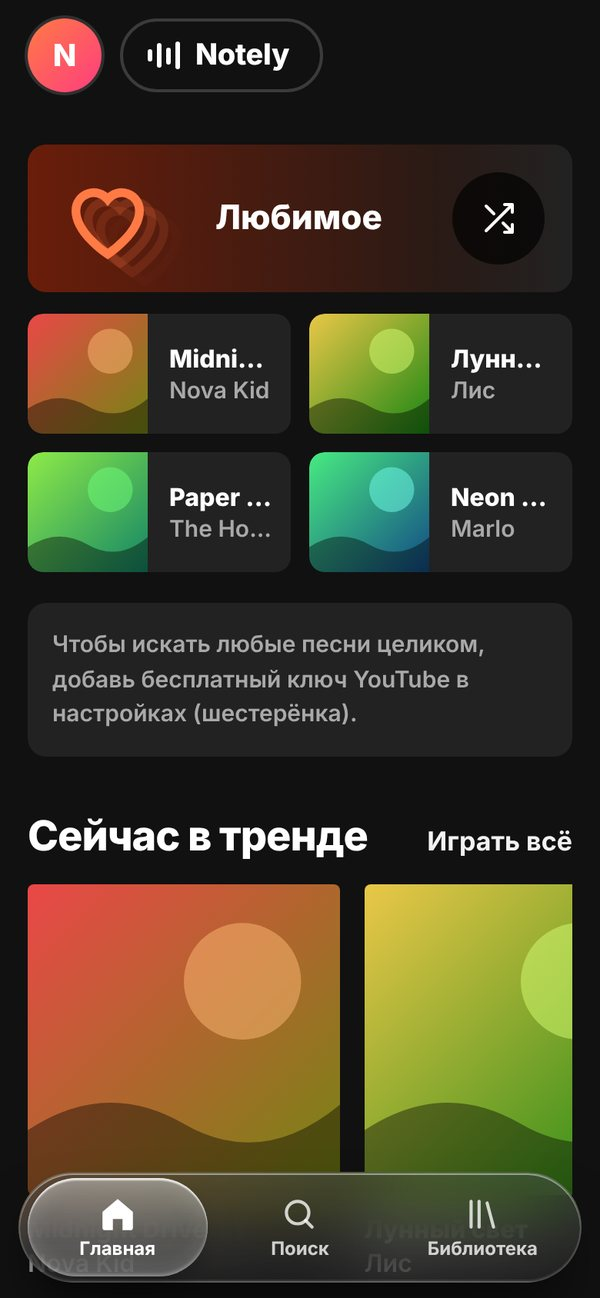
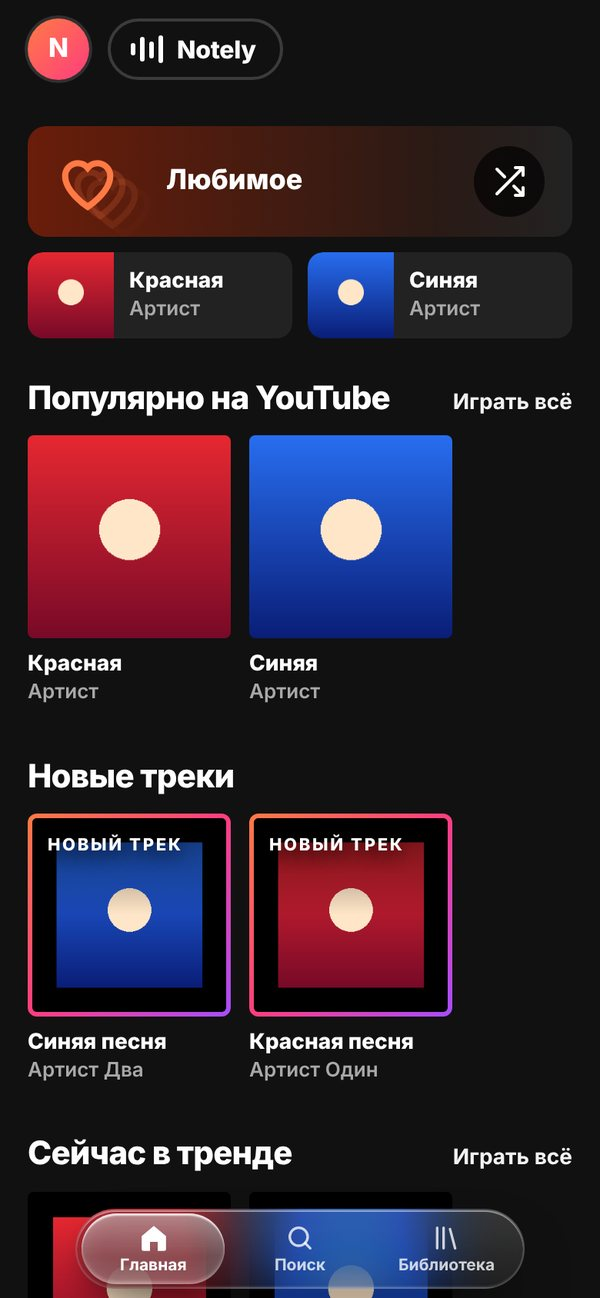
Один фон в стиле Apple Music из цветов обложки, новый плеер и свайпы
- bg.js: одна сцена, цветные пятна плывут и оживают, когда играет трек
- цвета берутся с обложки, у обложек YouTube «Topic» убраны чёрные полосы
- полный плеер как в Apple Music: крупная обложка, название слева, сердечко, тонкая полоса, большие кнопки, перемешать и повтор
- свайпы: в плеере влево/вправо меняют трек, вниз закрывает; мини-плеер влево/вправо/вверх; вкладки листаются влево/вправо
- из настроек убран выбор фона
- обновлены скриншоты и README

Claude-Session: https://claude.ai/code/session_01Xd3d1my2gsvXjvj9dSKZta

diff --git a/app.js b/app.js
@@ -9,7 +9,7 @@ const esc=s=>String(s==null?"":s).replace(/[&<>"]/g,c=>({"&":"&amp;","<":"&lt;",
 const fmt=s=>{s=Math.max(0,Math.round(s||0));return Math.floor(s/60)+":"+("0"+s%60).slice(-2)};
 let toastT=0;const toast=t=>{const e=$("toast");e.textContent=t;e.className="on";clearTimeout(toastT);toastT=setTimeout(()=>e.className="",3200)};
 const hue=id=>{let h=0;const s=String(id);for(let i=0;i<s.length;i++)h=(h*131+s.charCodeAt(i)*977)%360;return h};
-const artCss=t=>t.art?"background-image:url('"+esc(t.art)+"')":"background-image:linear-gradient(135deg,hsl("+hue(t.id)+" 75% 58%),hsl("+(hue(t.id)+60)%360+" 75% 38%))";
+const artCss=t=>t.art?"background-image:url('"+esc(t.art)+"')"+(t.topic?";background-size:178% auto":""):"background-image:linear-gradient(135deg,hsl("+hue(t.id)+" 75% 58%),hsl("+(hue(t.id)+60)%360+" 75% 38%))";
 
 /* ---- каталоги ---- */
 const aq=()=>"app_name="+APP+(ST.ak?"&api_key="+encodeURIComponent(ST.ak):"");
@@ -27,7 +27,7 @@ const dur8601=d=>{const m=/PT(?:(\d+)H)?(?:(\d+)M)?(?:(\d+)S)?/.exec(d||"");retu
 const decode=s=>{const t=document.createElement("textarea");t.innerHTML=s;return t.value};
 /* убираем хвосты из названий YouTube: (Official Video), [Lyrics], 4K и т.п. */
 const cleanT=t=>{let r=String(t).replace(/\s*[\(\[](official|lyrics?|audio|video|hd|4k|mv|music video|visualizer|clip|live|remaster(ed)?|explicit|with lyrics)[^\)\]]*[\)\]]/gi,"").replace(/\s*\|.*$/,"").replace(/\s+/g," ").trim();return r||t};
-const fromYt=x=>{const sn=x.snippet||{},th=sn.thumbnails||{};return{id:"y"+(x.id.videoId||x.id),ytId:x.id.videoId||x.id,src:"YouTube",vid:/official\s*(music\s*)?video|music\s*video|\bmv\b|video\s*clip/i.test(sn.title||""),title:cleanT(decode(sn.title||"")),artist:decode((sn.channelTitle||"").replace(/ - Topic$/,"")),art:(th.high||th.medium||th.default||{}).url||"",url:"",dur:x.contentDetails?dur8601(x.contentDetails.duration):0}};
+const fromYt=x=>{const sn=x.snippet||{},th=sn.thumbnails||{};return{id:"y"+(x.id.videoId||x.id),ytId:x.id.videoId||x.id,src:"YouTube",topic:/ - Topic$/.test(sn.channelTitle||""),vid:/official\s*(music\s*)?video|music\s*video|\bmv\b|video\s*clip/i.test(sn.title||""),title:cleanT(decode(sn.title||"")),artist:decode((sn.channelTitle||"").replace(/ - Topic$/,"")),art:(th.high||th.medium||th.default||{}).url||"",url:"",dur:x.contentDetails?dur8601(x.contentDetails.duration):0}};
 const ytOn=()=>!!(ST.yk||CF.proxy);const ytKey=()=>{if(!ST.yk)return Promise.reject(new Error("nokey"));return Promise.resolve(ST.yk)};
 const ytErr=j=>{if(j&&j.error){const e=new Error(j.error.message||"yt");e.quota=(j.error.errors||[]).some(x=>/quota/i.test(x.reason));throw e}return j};
 const ytSearch=q=>(!ST.yk&&CF.proxy)?getJ(CF.proxy.replace(/\/$/,"")+"/search?q="+encodeURIComponent(q)).then(ytErr).then(v=>(v.items||[]).map(fromYt)):ytKey().then(k=>getJ(YT+"/search?part=snippet&type=video&videoCategoryId=10&maxResults=20&q="+encodeURIComponent(q)+"&key="+k)).then(ytErr).then(j=>{const ids=(j.items||[]).map(i=>i.id.videoId).filter(Boolean);if(!ids.length)return[];return getJ(YT+"/videos?part=snippet,contentDetails&id="+ids.join(",")+"&key="+ST.yk).then(ytErr).then(v=>(v.items||[]).map(fromYt))});
@@ -37,9 +37,26 @@ const merge=rs=>{const o=[],n=Math.max(0,...rs.map(r=>r.ok?r.v.length:0));for(le
 const warn=rs=>{const q=rs.find(r=>!r.ok&&r.e&&r.e.quota);if(q)return"Дневной лимит YouTube закончился. Он обновится завтра, пока ищи в Audius и Jamendo.";const bad=rs.filter(r=>!r.ok);if(!bad.length)return"";return bad.every(b=>b.e&&b.e.message==="nokey")?(ytOn()?"":"Чтобы искать любые песни целиком, добавь бесплатный ключ YouTube в настройках (значок N вверху)."):"Часть каталога сейчас не отвечает. Попробуй позже."};
 
 /* ---- фон под трек ---- */
-const SCN=Object.keys(BG.scenes);
-function paintBg(){const t=cur;if(t){const h=hue(t.id);BG.color(h,h+70)}
-  if(ST.scene==="auto"){if(t)BG.set(SCN[hue(t.id+"s")%SCN.length])}else BG.set(ST.scene)}
+/* ---- фон под трек: цвета берём с обложки ---- */
+const palC={};let palTok=0;
+function hsl2rgb(h,s,l){h=((h%360)+360)%360/360;const f=n=>{const k=(n+h*12)%12,a=s*Math.min(l,1-l);return l-a*Math.max(-1,Math.min(k-3,9-k,1))};return[Math.round(f(0)*255),Math.round(f(8)*255),Math.round(f(4)*255)]}
+function rgb2hsl(r,g,b){r/=255;g/=255;b/=255;const mx=Math.max(r,g,b),mn=Math.min(r,g,b),l=(mx+mn)/2;let h=0,s=0;if(mx!==mn){const d=mx-mn;s=l>.5?d/(2-mx-mn):d/(mx+mn);h=mx===r?(g-b)/d+(g<b?6:0):mx===g?(b-r)/d+2:(r-g)/d+4;h*=60}return[h,s,l]}
+const fbPal=id=>{const h=hue(id);return[h,h+40,h+90,h-35,h+150].map(x=>hsl2rgb(x,.7,.46))};
+function grabPal(url){return new Promise(res=>{const im=new Image();im.crossOrigin="anonymous";
+  im.onload=()=>{try{const c=document.createElement("canvas");c.width=c.height=24;const x=c.getContext("2d"),w=im.naturalWidth,h=im.naturalHeight;x.drawImage(im,w*.25,h*.25,w*.5,h*.5,0,0,24,24);const d=x.getImageData(0,0,24,24).data;
+    const bins=Array.from({length:12},()=>({w:0,r:0,g:0,b:0}));
+    for(let i=0;i<d.length;i+=4){const[hh,ss,ll]=rgb2hsl(d[i],d[i+1],d[i+2]),ex=ll<.12||ll>.9,wt=ex?.02:1+ss*2.5,k=Math.floor(hh/30)%12,b=bins[k];b.w+=wt;b.r+=d[i]*wt;b.g+=d[i+1]*wt;b.b+=d[i+2]*wt}
+    const all=bins.reduce((a,b)=>a+b.w,0),top=bins.filter(b=>b.w>all*.08).sort((a,b)=>b.w-a.w).slice(0,4).map(b=>{const[hh,ss,ll]=rgb2hsl(b.r/b.w,b.g/b.w,b.b/b.w);return[hh,Math.min(.85,ss>.2?Math.max(.45,ss*1.15):ss*1.1),Math.min(.5,Math.max(.28,ll))]});
+    if(!top.length){res(null);return}
+    const m=top[0],sh=(c,d)=>[c[0]+d,c[1],c[2]],cc=[top[0],top[1]||sh(m,24),top[2]||sh(m,-24),top[3]||sh(top[1]||m,-18)].map(c=>hsl2rgb(c[0],c[1],c[2]));
+    const o=[cc[1],cc[2],cc[3],cc[0],cc[0]];
+    res(o)}catch(e){res(null)}};
+  im.onerror=()=>res(null);im.src=url})}
+function paintBg(){const t=cur;if(!t)return;const my=++palTok;
+  if(palC[t.id]){BG.palette(palC[t.id]);return}
+  BG.palette(fbPal(t.id));
+  if(!t.art)return;
+  grabPal(t.art).then(p=>{if(!p)return;palC[t.id]=p;if(my===palTok)BG.palette(p)})}
 
 /* ---- плеер ---- */
 const au=new Audio();au.preload="none";au.volume=ST.vol/100;
@@ -62,7 +79,7 @@ function resolve(t){if(t.src==="YouTube")return Promise.resolve("");if(t.src!=="
   return getJ(AUD+"/tracks/"+t.id.slice(1)+"/stream?no_redirect=true&"+aq()).then(j=>typeof j.data==="string"?j.data:t.url).catch(()=>t.url)}
 function load(go){cur=Q[qi];if(!cur)return;const my=++tok;
   $("bar").classList.remove("hid");$("bCv").style.cssText=$("fCv").style.cssText=artCss(cur);mq($("bT"),cur.title);$("bA").textContent=$("fA").textContent=cur.artist;$("fT").textContent=cur.title;
-  ST.recent=[cur].concat(ST.recent.filter(x=>x.id!==cur.id)).slice(0,20);save();document.title=cur.title+" · Notely";$("fLike").classList.toggle("on",isLiked(cur));paintBg();mark();
+  ST.recent=[cur].concat(ST.recent.filter(x=>x.id!==cur.id)).slice(0,20);save();document.title=cur.title+" · Notely";$("fLike").classList.toggle("on",isLiked(cur));paintBg();mark();if($("full").classList.contains("on")&&lastQi>=0&&qi!==lastQi)slide(qi>lastQi?"sl":"sr");lastQi=qi;
   if("mediaSession" in navigator){try{navigator.mediaSession.metadata=new MediaMetadata({title:cur.title,artist:cur.artist,artwork:cur.art?[{src:cur.art,sizes:"480x480"}]:[]})}catch(e){}}
   if(cur.src==="YouTube"){au.pause();ymode=true;showYt(true);ensureYT().then(p=>{if(my!==tok)return;p.loadVideoById(cur.ytId);try{p.setVolume(ST.vol)}catch(e){}}).catch(()=>failTrack({name:"YouTube не загрузился"}));return}
   if(ymode){ymode=false;try{yp&&yp.pauseVideo()}catch(e){}showYt(false)}
@@ -83,11 +100,11 @@ au.addEventListener("timeupdate",()=>{if(ymode)return;const d=au.duration||(cur&
 $("vol").value=ST.vol;rng($("vol"),ST.vol);$("vol").addEventListener("input",function(){au.volume=this.value/100;ST.vol=+this.value;try{yp&&yp.setVolume(ST.vol)}catch(e){}rng(this,this.value);save()});
 $("ppB").onclick=$("fPp").onclick=toggle;$("nxB").onclick=$("fNx").onclick=next;$("prB").onclick=$("fPr").onclick=prev;
 $("shB").onclick=$("fSh").onclick=()=>{shuf=!shuf;$("shB").classList.toggle("on",shuf);$("fSh").classList.toggle("on",shuf);toast(shuf?"Перемешивание включено":"Перемешивание выключено")};
-$("rpB").onclick=function(){rep=!rep;this.classList.toggle("on",rep);toast(rep?"Повтор трека включён":"Повтор выключен")};
+$("rpB").onclick=$("fRp").onclick=function(){rep=!rep;$("rpB").classList.toggle("on",rep);$("fRp").classList.toggle("on",rep);toast(rep?"Повтор трека включён":"Повтор выключен")};
 $("fLike").onclick=e=>{if(cur)like(cur,e.currentTarget)};
+let lastQi=-1;const slide=c=>{const e=$("fCv");e.classList.remove("sl","sr");void e.offsetWidth;e.classList.add(c)};
 const openFull=()=>{if(!cur)return;$("full").classList.add("on");document.body.classList.add("fp");if(ymode)showYt(true)},closeFull=()=>{$("full").classList.remove("on");document.body.classList.remove("fp");if(ymode)showYt(true)};
 $("nowB").onclick=openFull;$("clB").onclick=closeFull;
-$("bars").innerHTML=Array.from({length:22},(_,i)=>'<i style="animation-delay:'+(-(i*47%100)/100)+'s;animation-duration:'+(.6+(i*13%7)/10)+'s"></i>').join("");
 if("mediaSession" in navigator){const m=navigator.mediaSession;[["play",()=>{if(ymode&&yp)yp.playVideo();else au.play()}],["pause",()=>{if(ymode&&yp)yp.pauseVideo();else au.pause()}],["nexttrack",next],["previoustrack",prev]].forEach(a=>{try{m.setActionHandler(a[0],a[1])}catch(e){}})}
 document.addEventListener("keydown",e=>{if(/INPUT|TEXTAREA/.test(e.target.tagName)&&e.target.type!=="range")return;if(e.code==="Space"){e.preventDefault();toggle()}if(e.key==="ArrowRight"&&e.shiftKey)next();if(e.key==="ArrowLeft"&&e.shiftKey)prev();if(e.key==="Escape")closeFull()});
 function burst(el){const r=el.getBoundingClientRect();for(let i=0;i<7;i++){const h=document.createElement("div");h.className="hb";h.textContent=["💗","💖","✨","💞"][i%4];h.style.left=(r.left+r.width/2-9)+"px";h.style.top=(r.top+r.height/2-9)+"px";h.style.setProperty("--x",(Math.random()*90-45)+"px");h.style.animationDelay=(i*50)+"ms";document.body.appendChild(h);setTimeout(()=>h.remove(),1300)}}
@@ -155,19 +172,34 @@ main.addEventListener("click",e=>{
   const ch=e.target.closest(".chip");if(ch){libTab=ch.dataset.c;lib();return}
   const g=e.target.closest(".g");if(g){$("q").value=g.textContent;doSearch(g.dataset.g);return}
   const b=e.target.closest("[data-k]");if(b)play(lists[b.dataset.k],+b.dataset.i)});
+/* ---- свайпы ---- */
+const buzz=()=>{try{navigator.vibrate&&navigator.vibrate(10)}catch(e){}};
+function swipe(el,o){let sx=0,sy=0,id=null,dx=0,dy=0,ax=null;
+  el.addEventListener("pointerdown",e=>{if(e.pointerType==="mouse"||e.target.closest("input,select,textarea")||(o.skip&&e.target.closest(o.skip))){id=null;return}id=e.pointerId;sx=e.clientX;sy=e.clientY;dx=dy=0;ax=null});
+  el.addEventListener("pointermove",e=>{if(id!==e.pointerId)return;dx=e.clientX-sx;dy=e.clientY-sy;if(!ax&&(Math.abs(dx)>10||Math.abs(dy)>10))ax=Math.abs(dx)>Math.abs(dy)?"x":"y"});
+  el.addEventListener("pointerup",e=>{if(id!==e.pointerId)return;id=null;const m=o.min||60;let f=null;
+    if(ax==="x"&&Math.abs(dx)>m&&Math.abs(dx)>Math.abs(dy)*1.4)f=dx<0?o.left:o.right;
+    else if(ax==="y"&&Math.abs(dy)>m&&Math.abs(dy)>Math.abs(dx)*1.4)f=dy<0?o.up:o.down;
+    if(f){buzz();const k=ev=>{ev.stopPropagation();ev.preventDefault()};el.addEventListener("click",k,{capture:true,once:true});setTimeout(()=>el.removeEventListener("click",k,true),400);f()}});
+  el.addEventListener("pointercancel",()=>{id=null})}
+swipe($("full"),{left:next,right:prev,down:closeFull,min:70});
+$("grab").onclick=closeFull;
+swipe($("bar"),{left:next,right:prev,up:openFull,min:50});
+const TABS=["home","search","lib"],goTab=d=>{const i=TABS.indexOf(view)+d;if(i>=0&&i<TABS.length)show(TABS[i])};
+swipe(main,{left:()=>goTab(1),right:()=>goTab(-1),skip:".shelf,.chips,.sb",min:70});
+
 /* волна при нажатии */
 document.addEventListener("pointerdown",e=>{const b=e.target.closest("button");if(!b)return;const r=b.getBoundingClientRect(),d=Math.max(r.width,r.height),s=document.createElement("span");s.className="rpl";s.style.cssText="width:"+d+"px;height:"+d+"px;left:"+(e.clientX-r.left-d/2)+"px;top:"+(e.clientY-r.top-d/2)+"px";b.appendChild(s);setTimeout(()=>s.remove(),650)});
 /* настройки */
-$("sc").innerHTML='<option value="auto">Авто (меняется под трек)</option>'+SCN.map(k=>'<option value="'+k+'">'+BG.scenes[k].name+" — "+BG.scenes[k].desc+"</option>").join("");
 const APP_VER="2.1";
 $("ver").textContent=APP_VER;
 $("setX").onclick=$("setNo").onclick=()=>$("set").classList.remove("on");
 $("updB").onclick=async()=>{const b=$("updB");b.disabled=true;b.textContent="Обновляю…";try{if("serviceWorker" in navigator){const rs=await navigator.serviceWorker.getRegistrations();await Promise.all(rs.map(r=>r.unregister()))}if("caches" in window){const ks=await caches.keys();await Promise.all(ks.map(k=>caches.delete(k)))}}catch(e){}location.replace(location.pathname+"?v="+Date.now())};
-$("setB").onclick=()=>{$("sc").value=ST.scene;$("yk").value=ST.yk;$("jk").value=ST.jk;$("set").classList.add("on")};
+$("setB").onclick=()=>{$("yk").value=ST.yk;$("jk").value=ST.jk;$("set").classList.add("on")};
 $("setNo").onclick=()=>$("set").classList.remove("on");
-$("setOk").onclick=()=>{ST.yk=$("yk").value.trim();ST.jk=$("jk").value.trim();ST.scene=$("sc").value;save();paintBg();$("set").classList.remove("on");toast("Сохранено");show(view)};
+$("setOk").onclick=()=>{ST.yk=$("yk").value.trim();ST.jk=$("jk").value.trim();save();$("set").classList.remove("on");toast("Сохранено");show(view)};
 $("set").addEventListener("click",e=>{if(e.target===$("set"))$("set").classList.remove("on")});
-BG.init();if(ST.scene!=="auto"&&BG.scenes[ST.scene])BG.set(ST.scene);
+BG.init();
 show("home");setTimeout(moveInd,300);if(document.fonts&&document.fonts.ready)document.fonts.ready.then(moveInd);
 if("serviceWorker" in navigator&&location.protocol.startsWith("http")){navigator.serviceWorker.register("sw.js").catch(()=>{})}
 })();

diff --git a/index.html b/index.html
@@ -107,16 +107,6 @@ input[type=range]::-moz-range-thumb{width:13px;height:13px;border-radius:50%;bac
 .vol{display:flex;align-items:center;gap:8px}.vol input{width:90px}
 .mprog{display:none}
 /* полный плеер */
-#full{position:fixed;inset:0;z-index:40;display:flex;flex-direction:column;align-items:center;justify-content:center;gap:18px;padding:calc(20px + var(--sat)) 28px calc(24px + var(--sab));background:#0b0b0bd9;backdrop-filter:blur(16px);-webkit-backdrop-filter:blur(16px);clip-path:circle(0 at 50% 100%);visibility:hidden;transition:clip-path .7s cubic-bezier(.7,0,.2,1),visibility 0s .7s}
-#full.on{clip-path:circle(150% at 50% 100%);visibility:visible;transition:clip-path .8s cubic-bezier(.7,0,.2,1)}
-#full .cl{position:absolute;top:calc(14px + var(--sat));right:18px}
-#full .cv{position:relative;z-index:auto;width:min(86vw,54vh,460px);aspect-ratio:1;border-radius:14px;opacity:0;transition:opacity .8s ease .2s}
-#full.on .cv{opacity:1}
-#full .cv::before{content:"";position:absolute;inset:-7%;z-index:-1;border-radius:24px;background:inherit;background-size:cover;background-position:center;filter:blur(38px) saturate(1.7) brightness(1.1);opacity:.9}
-#full .cv::after{content:"";position:absolute;inset:-26%;z-index:-2;border-radius:50%;background:inherit;background-size:cover;background-position:center;filter:blur(90px) saturate(1.8);opacity:.45}
-#full .t{text-align:center;max-width:90%}#full .t b{font-size:clamp(20px,4vw,28px);letter-spacing:-.02em;display:block;line-height:1.15;font-weight:800}#full .t span{color:var(--mute)}
-#full .sk2{width:min(520px,100%)}#full .bt{gap:24px}#full .pp{width:64px;height:64px}
-.bars{display:flex;gap:4px;align-items:flex-end;height:30px}.bars i{width:5px;border-radius:3px;background:var(--grad);height:100%;transform-origin:bottom;transform:scaleY(.15);animation:eqk .9s ease-in-out infinite alternate;animation-play-state:var(--pl,paused)}
 #ytw{position:fixed;z-index:45;right:16px;bottom:calc(150px + var(--sab));width:240px;aspect-ratio:16/9;border-radius:12px;overflow:hidden;background:#000;box-shadow:0 14px 40px -10px #000,0 0 0 1px var(--line);transition:all .6s var(--ease)}
 #ytw iframe,#ytw>div{width:100%;height:100%;display:block;border:0}
 #ytw.big{right:50%;bottom:50%;transform:translate(50%,calc(50% - 90px));width:min(88vw,720px);border-radius:16px;z-index:46}
@@ -159,6 +149,36 @@ input[type=range]::-moz-range-thumb{width:13px;height:13px;border-radius:50%;bac
 #set .wide{width:100%;justify-content:center}
 #set .sf{display:flex;gap:8px;justify-content:flex-end;padding-top:12px;border-top:1px solid var(--line)}
 #set .btn{padding:10px 18px;font-size:14px}
+/* полный плеер, как в Apple Music */
+#full{position:fixed;inset:0;z-index:40;display:flex;flex-direction:column;align-items:center;padding:calc(8px + var(--sat)) 26px calc(18px + var(--sab));background:linear-gradient(180deg,#0000 35%,#0007);clip-path:circle(0 at 50% 100%);visibility:hidden;transition:clip-path .7s cubic-bezier(.7,0,.2,1),visibility 0s .7s;touch-action:none;user-select:none;-webkit-user-select:none}
+#full.on{clip-path:circle(150% at 50% 100%);visibility:visible;transition:clip-path .8s cubic-bezier(.7,0,.2,1)}
+#full .grab{width:42px;height:5px;border-radius:3px;background:#ffffff59;margin:4px 0 6px;flex:none}
+#full .cl{position:absolute;top:calc(6px + var(--sat));right:12px;background:#ffffff1f;color:#fff;padding:7px;border-radius:50%}
+#full .stage,#full .meta,#full .prog,#full .ctrl,#full .sub{width:min(100%,460px)}
+#full .stage{flex:1;min-height:0;display:grid;place-items:center}
+#full .cv{position:relative;width:min(100%,50vh,440px);aspect-ratio:1;border-radius:12px;opacity:0;box-shadow:0 34px 64px -16px #000b,0 10px 24px -10px #0008;transform:scale(.82);transition:transform .7s cubic-bezier(.2,.9,.25,1.12),opacity .8s ease .2s}
+#full.on .cv{opacity:1}#full.pl .cv{transform:scale(1)}
+@keyframes sL{from{transform:translateX(70px) scale(.9);opacity:0}}@keyframes sR{from{transform:translateX(-70px) scale(.9);opacity:0}}
+#full .cv.sl{animation:sL .45s cubic-bezier(.2,.9,.25,1)}#full .cv.sr{animation:sR .45s cubic-bezier(.2,.9,.25,1)}
+#full .meta{display:flex;align-items:center;gap:14px;margin-top:20px;flex:none}
+#full .t{flex:1;min-width:0;text-align:left}
+#full .t b{display:-webkit-box;-webkit-line-clamp:2;-webkit-box-orient:vertical;overflow:hidden;font-size:22px;font-weight:800;letter-spacing:-.02em;line-height:1.2}
+#full .t span{display:block;color:#ffffffb8;font-size:17px;font-weight:600;margin-top:3px;white-space:nowrap;overflow:hidden;text-overflow:ellipsis}
+#full .meta .ib{width:44px;height:44px;padding:0;border-radius:50%;background:#ffffff26;display:grid;place-items:center;flex:none}
+#fLike.on{color:#ff5d8f}#fLike.on svg{fill:currentColor}
+#full .prog{margin-top:16px;flex:none}
+#full .prog input[type=range]{width:100%;height:6px;background:linear-gradient(90deg,#fff var(--p,0%),#ffffff40 var(--p,0%))}
+#full .prog input[type=range]::-webkit-slider-thumb{width:0;height:0;transition:width .2s,height .2s}
+#full .prog input[type=range]:active::-webkit-slider-thumb{width:16px;height:16px}
+#full .prog input[type=range]::-moz-range-thumb{width:0;height:0;border:0}
+#full .tm{display:flex;justify-content:space-between;font-size:12px;color:#ffffffa6;font-variant-numeric:tabular-nums;margin-top:8px}
+#full .ctrl{display:flex;align-items:center;justify-content:center;gap:30px;margin-top:6px;flex:none}
+#full .ctrl button{color:#fff;display:grid;place-items:center;border-radius:50%;transition:transform .2s var(--ease)}#full .ctrl button:active{transform:scale(.86)}
+#full .ctrl svg{width:34px;height:34px}
+#full .ctrl .pp{width:84px;height:84px;background:none;color:#fff}#full .ctrl .pp svg{width:62px;height:62px}
+#full .sub{display:flex;justify-content:space-between;padding:0 22px;margin-top:2px;flex:none}
+#full .sub button{padding:12px;border-radius:50%;color:#ffffffb3;transition:background .2s,color .2s}#full .sub button.on{color:#fff;background:#ffffff33}
+.shelf{touch-action:pan-x pan-y}#main{touch-action:pan-y}#bar{touch-action:none}
 </style>
 </head>
 <body>
@@ -189,26 +209,27 @@ input[type=range]::-moz-range-thumb{width:13px;height:13px;border-radius:50%;bac
   <div class="mprog"><i id="mp"></i></div>
 </footer>
 <section id="full" aria-label="Сейчас играет">
+  <div class="grab" id="grab"></div>
   <button class="ib cl" id="clB" aria-label="Закрыть"><svg class="i" viewBox="0 0 24 24"><path d="M6 9l6 6 6-6"/></svg></button>
-  <div class="cv" id="fCv"></div>
-  <div class="bars" id="bars"></div>
-  <div class="t"><b id="fT">—</b><span id="fA"></span></div>
-  <div class="sk2"><span id="fCur">0:00</span><input type="range" id="fSeek" min="0" max="1000" value="0" aria-label="Перемотка"><span id="fDur">0:00</span></div>
-  <div class="bt">
+  <div class="stage"><div class="cv" id="fCv"></div></div>
+  <div class="meta">
+    <div class="t"><b id="fT">—</b><span id="fA"></span></div>
     <button class="ib" id="fLike" aria-label="Любимое"><svg class="i" viewBox="0 0 24 24"><path d="M12 21s-8-5.200-8-11a4.500 4.500 0 0 1 8-2.800A4.500 4.500 0 0 1 20 10c0 5.800-8 11-8 11z"/></svg></button>
-    <button class="ib" id="fPr" aria-label="Назад"><svg class="i f" viewBox="0 0 24 24"><path d="M6 5h2v14H6zM20 5v14L9 12z"/></svg></button>
+  </div>
+  <div class="prog"><input type="range" id="fSeek" min="0" max="1000" value="0" aria-label="Перемотка"><div class="tm"><span id="fCur">0:00</span><span id="fDur">0:00</span></div></div>
+  <div class="ctrl">
+    <button id="fPr" aria-label="Назад"><svg class="i f" viewBox="0 0 24 24"><path d="M6 5h2v14H6zM20 5v14L9 12z"/></svg></button>
     <button class="pp" id="fPp" aria-label="Играть"><svg class="i f" viewBox="0 0 24 24" id="fPpI"><path d="M8 5v14l11-7z"/></svg></button>
-    <button class="ib" id="fNx" aria-label="Вперёд"><svg class="i f" viewBox="0 0 24 24"><path d="M16 5h2v14h-2zM4 5v14l11-7z"/></svg></button>
-    <button class="ib" id="fSh" aria-label="Перемешать"><svg class="i" viewBox="0 0 24 24"><path d="M16 3h5v5M4 20L21 3M21 16v5h-5M15 15l6 6M4 4l5 5"/></svg></button>
+    <button id="fNx" aria-label="Вперёд"><svg class="i f" viewBox="0 0 24 24"><path d="M16 5h2v14h-2zM4 5v14l11-7z"/></svg></button>
+  </div>
+  <div class="sub">
+    <button id="fSh" aria-label="Перемешать"><svg class="i" viewBox="0 0 24 24"><path d="M16 3h5v5M4 20L21 3M21 16v5h-5M15 15l6 6M4 4l5 5"/></svg></button>
+    <button id="fRp" aria-label="Повтор"><svg class="i" viewBox="0 0 24 24"><path d="M17 2l4 4-4 4M3 11V9a3 3 0 0 1 3-3h15M7 22l-4-4 4-4M21 13v2a3 3 0 0 1-3 3H3"/></svg></button>
   </div>
 </section>
 <div id="ytw" class="mini" hidden><div id="ytp"></div></div>
 <div id="set"><div role="dialog" aria-modal="true" aria-label="Настройки">
   <div class="sh"><h2>Настройки</h2><button class="ib" id="setX" aria-label="Закрыть">✕</button></div>
-  <section>
-    <h3>Фон в полном плеере</h3>
-    <select id="sc"></select>
-  </section>
   <section>
     <h3>Свои ключи <small>необязательно, сайт работает и без них</small></h3>
     <label>YouTube<input id="yk" placeholder="начинается с AIza…" autocomplete="off"><a href="https://console.cloud.google.com/apis/library/youtube.googleapis.com" target="_blank" rel="noopener">как получить ключ</a></label>

diff --git a/bg.js b/bg.js
@@ -1,41 +1,44 @@
-/* Живые фоны Notely: рисуются на маленьком холсте и плавно растягиваются на экран.
-   window.BG.set(имя) — выбрать фон, BG.color(h1,h2) — цвета, BG.play(true/false) — оживить/успокоить. */
+/* Фон Notely, как в Apple Music: большие мягкие цветные пятна плавно плывут за плеером.
+   Цвета берутся с обложки трека: BG.palette([[r,g,b], ...]). BG.play(true/false) оживляет или успокаивает. */
 (function(){
 "use strict";
-var TAU=Math.PI*2,S={};
-function rnd(n){var x=Math.sin(n*127.1+311.7)*43758.5453;return x-Math.floor(x)}
-function hsl(h,s,l,a){return"hsla("+(((h%360)+360)%360)+","+s+"%,"+l+"%,"+(a==null?1:a)+")"}
-var SC={
- fluid:{name:"Жидкость",desc:"Мягкие цветные пятна",draw:function(c,w,h,t,A,B,e){c.fillStyle=hsl(A,55,9);c.fillRect(0,0,w,h);c.globalCompositeOperation="lighter";
-  for(var i=0;i<6;i++){var x=w*(.5+.42*Math.sin(t*.23+i*1.9)),y=h*(.5+.4*Math.cos(t*.19+i*2.7)),r=Math.max(w,h)*(.32+.07*Math.sin(t*.5+i)+e*.05),g=c.createRadialGradient(x,y,0,x,y,r);g.addColorStop(0,hsl(i%2?A:B,85,52,.55));g.addColorStop(1,hsl(i%2?A:B,85,52,0));c.fillStyle=g;c.fillRect(0,0,w,h)}c.globalCompositeOperation="source-over"}},
- waves:{name:"Волны",desc:"Слои как океан",draw:function(c,w,h,t,A,B,e){var g=c.createLinearGradient(0,0,0,h);g.addColorStop(0,hsl(A,60,14));g.addColorStop(1,hsl(B,60,8));c.fillStyle=g;c.fillRect(0,0,w,h);
-  for(var k=0;k<6;k++){c.beginPath();c.moveTo(0,h);var amp=h*(.04+.012*k)*(1+e*.5),base=h*(.45+k*.1);for(var x=0;x<=w;x+=3){c.lineTo(x,base+Math.sin(x/w*TAU*(1.3+k*.25)+t*(.5+k*.14)*(k%2?1:-1))*amp+Math.sin(x/w*TAU*3+t*.7+k)*amp*.35)}c.lineTo(w,h);c.closePath();c.fillStyle=hsl(k%2?A:B,70,48-k*4,.22+k*.05);c.fill()}}},
- bokeh:{name:"Боке",desc:"Огоньки в тёплой дымке",draw:function(c,w,h,t,A,B,e){var g=c.createLinearGradient(0,0,w,h);g.addColorStop(0,hsl(A,50,10));g.addColorStop(1,hsl(B,50,14));c.fillStyle=g;c.fillRect(0,0,w,h);c.globalCompositeOperation="lighter";
-  for(var i=0;i<26;i++){var sp=.2+rnd(i)*.5,x=((rnd(i+9)*w+t*sp*8*(i%2?1:-1))%w+w)%w,y=((rnd(i+3)*h-t*sp*10)%h+h)%h,r=(.05+rnd(i+5)*.12)*Math.min(w,h)*(1+e*.12),gg=c.createRadialGradient(x,y,0,x,y,r);gg.addColorStop(0,hsl(i%3?A:B,90,62,.5));gg.addColorStop(.7,hsl(i%3?A:B,90,60,.16));gg.addColorStop(1,hsl(A,90,60,0));c.fillStyle=gg;c.beginPath();c.arc(x,y,r,0,TAU);c.fill()}c.globalCompositeOperation="source-over"}},
- sunset:{name:"Закат",desc:"Солнце и полосы света",draw:function(c,w,h,t,A,B,e){var g=c.createLinearGradient(0,0,0,h);g.addColorStop(0,hsl(B,60,14));g.addColorStop(.55,hsl(A,80,38));g.addColorStop(1,hsl(A+30,85,60));c.fillStyle=g;c.fillRect(0,0,w,h);
-  var sy=h*.58+Math.sin(t*.2)*h*.015,sr=Math.min(w,h)*(.2+e*.01);var sg=c.createRadialGradient(w/2,sy,0,w/2,sy,sr*2.4);sg.addColorStop(0,hsl(A+40,100,78,.9));sg.addColorStop(.4,hsl(A+20,100,65,.35));sg.addColorStop(1,hsl(A,100,60,0));c.fillStyle=sg;c.fillRect(0,0,w,h);c.fillStyle=hsl(A+45,100,82);c.beginPath();c.arc(w/2,sy,sr,0,TAU);c.fill();
-  for(var i=0;i<9;i++){var y=sy+sr*.2+i*i*h*.0075+((t*3*(i+1)*.3)%4);c.fillStyle=hsl(B,60,12,.6);c.fillRect(0,y,w,1+i*.7)}}},
- aurora:{name:"Лента",desc:"Северное сияние",draw:function(c,w,h,t,A,B,e){var g=c.createLinearGradient(0,0,0,h);g.addColorStop(0,hsl(B,50,6));g.addColorStop(1,hsl(A,50,12));c.fillStyle=g;c.fillRect(0,0,w,h);c.globalCompositeOperation="lighter";
-  for(var k=0;k<4;k++){var col=k%2?A:B;for(var x=0;x<w;x+=2){var y=h*(.3+.08*k)+Math.sin(x/w*TAU*1.2+t*(.3+k*.1)+k*2)*h*.1+Math.sin(x/w*TAU*2.7-t*.4)*h*.04,len=h*(.28+.06*Math.sin(x/w*9+t+k)+e*.04),gg=c.createLinearGradient(0,y-len,0,y+len*.3);gg.addColorStop(0,hsl(col,90,60,0));gg.addColorStop(.7,hsl(col,90,60,.2));gg.addColorStop(1,hsl(col,90,60,0));c.fillStyle=gg;c.fillRect(x,y-len,2,len*1.3)}}c.globalCompositeOperation="source-over"}},
- rain:{name:"Дождь",desc:"Тёплое окно в дождь",draw:function(c,w,h,t,A,B,e){var g=c.createLinearGradient(0,0,0,h);g.addColorStop(0,hsl(A,35,8));g.addColorStop(1,hsl(B,40,16));c.fillStyle=g;c.fillRect(0,0,w,h);c.globalCompositeOperation="lighter";
-  for(var i=0;i<14;i++){var x=rnd(i+40)*w,y=h*.65+rnd(i+7)*h*.3,r=h*(.05+rnd(i)*.08),gg=c.createRadialGradient(x,y,0,x,y,r);gg.addColorStop(0,hsl(i%2?A:B,90,60,.35));gg.addColorStop(1,hsl(A,90,60,0));c.fillStyle=gg;c.beginPath();c.arc(x,y,r,0,TAU);c.fill()}
-  c.globalCompositeOperation="source-over";c.lineCap="round";for(var j=0;j<70;j++){var sp=.5+rnd(j)*.7,x2=rnd(j+80)*w*1.2,y2=((rnd(j+2)*h+t*h*.5*sp)%(h+20))-10,l=h*.06*sp;c.strokeStyle="rgba(255,255,255,"+(.08+rnd(j+5)*.14)+")";c.lineWidth=.8;c.beginPath();c.moveTo(x2-y2*.15,y2);c.lineTo(x2-y2*.15-l*.15,y2+l);c.stroke()}}}
-};
-var cv,ctx,W=0,H=0,cur="fluid",target={a:330,b:30},val={a:330,b:30},energy=0,playing=false,t=0,last=0,raf=0,mode="auto",lastAuto="";
-function size(){cv=cv||document.getElementById("bg");var q=cv.id==="bg"?.28:1;var w=Math.max(80,Math.round(innerWidth*q)),h=Math.max(120,Math.round(innerHeight*q));if(w!==cv.width||h!==cv.height){cv.width=w;cv.height=h}W=cv.width;H=cv.height}
-function dh(a,b){var d=((b-a+540)%360)-180;return d}
-function frame(ts){raf=requestAnimationFrame(frame);var dt=Math.min(.05,(ts-last)/1000||0);last=ts;
-  energy+=((playing?1:0)-energy)*Math.min(1,dt*2);t+=dt*(.35+energy*.9);
-  val.a+=dh(val.a,target.a)*Math.min(1,dt*1.4);val.b+=dh(val.b,target.b)*Math.min(1,dt*1.4);
-  var beat=energy*(.5+.5*Math.sin(ts/1000*TAU*1.9));SC[cur].draw(ctx,W,H,t,val.a,val.b,beat);}
+var TAU=Math.PI*2,cv,ctx,W=0,H=0,raf=0,last=0,t=0,energy=0,playing=false,N=5;
+var cols=[],tgt=[];
+for(var i=0;i<N;i++){cols.push([120,70,150]);tgt.push([120,70,150])}
+function size(){cv=cv||document.getElementById("bg");var q=.26,w=Math.max(80,Math.round(innerWidth*q)),h=Math.max(120,Math.round(innerHeight*q));if(w!==cv.width||h!==cv.height){cv.width=W=w;cv.height=H=h}}
+function rgba(c,a){return"rgba("+(c[0]|0)+","+(c[1]|0)+","+(c[2]|0)+","+a+")"}
+function draw(){
+  var c=ctx,w=W,h=H;
+  c.globalCompositeOperation="source-over";
+  c.fillStyle=rgba([cols[N-1][0]*.3,cols[N-1][1]*.3,cols[N-1][2]*.3],1);c.fillRect(0,0,w,h);
+  var m=Math.max(w,h);
+  for(var i=0;i<N;i++){
+    var x=w*(.5+.42*Math.sin(t*(.16+.045*i)+i*2.1)),y=h*(.48+.4*Math.cos(t*(.12+.04*i)+i*1.7)),
+        r=m*(.5+.08*Math.sin(t*.37+i*1.3)+energy*.05*Math.sin(t*2.4+i));
+    var g=c.createRadialGradient(x,y,0,x,y,r);g.addColorStop(0,rgba(cols[i],.95));g.addColorStop(.55,rgba(cols[i],.42));g.addColorStop(1,rgba(cols[i],0));
+    c.fillStyle=g;c.fillRect(0,0,w,h);
+  }
+  var v=c.createLinearGradient(0,h*.45,0,h);v.addColorStop(0,"rgba(0,0,0,0)");v.addColorStop(1,"rgba(0,0,0,.5)");c.fillStyle=v;c.fillRect(0,0,w,h);
+}
+function frame(ts){
+  raf=requestAnimationFrame(frame);
+  var dt=Math.min(.05,(ts-last)/1000||0);last=ts;
+  energy+=((playing?1:0)-energy)*Math.min(1,dt*2);
+  t+=dt*(.28+energy*.6);
+  var k=Math.min(1,dt*1.4);
+  for(var i=0;i<N;i++)for(var j=0;j<3;j++)cols[i][j]+=(tgt[i][j]-cols[i][j])*k;
+  draw();
+}
 function start(){if(raf)return;last=performance.now();raf=requestAnimationFrame(frame)}
 function stop(){cancelAnimationFrame(raf);raf=0}
-var BG={scenes:SC,
- init:function(){size();ctx=cv.getContext("2d");addEventListener("resize",size);document.addEventListener("visibilitychange",function(){document.hidden?stop():start()});
-  if(matchMedia("(prefers-reduced-motion: reduce)").matches){t=3;SC[cur].draw(ctx,W,H,t,val.a,val.b,0);return}start()},
- set:function(n){if(SC[n]){cur=n}},get:function(){return cur},
- color:function(a,b){target.a=a;target.b=b},play:function(p){playing=p},
- thumb:function(cvs,n){var c=cvs.getContext("2d");cvs.width=110;cvs.height=140;SC[n].draw(c,110,140,4.2,330,25,.6);return SC[n]}
+window.BG={
+  init:function(){
+    size();ctx=cv.getContext("2d");addEventListener("resize",size);
+    document.addEventListener("visibilitychange",function(){document.hidden?stop():start()});
+    if(matchMedia("(prefers-reduced-motion: reduce)").matches){t=3;draw();return}
+    start();
+  },
+  palette:function(p){if(!p||!p.length)return;for(var i=0;i<N;i++)tgt[i]=p[i%p.length].slice()},
+  play:function(p){playing=p}
 };
-window.BG=BG;
 })();

diff --git a/README.md b/README.md
@@ -33,7 +33,8 @@
 
 ## Что умеет
 
-- **Живые фоны.** Шесть сцен: «Жидкость», «Волны», «Боке», «Закат», «Лента» и «Дождь». Они оживают, когда играет музыка, а цвета подстраиваются под трек. Они играют за обложкой в полном плеере, а выбрать свой фон или оставить «Авто» можно в настройках.
+- **Фон под обложку.** В полном плеере за обложкой плавно плывут цветные пятна из цветов самой обложки, как в Apple Music. Когда трек играет, они оживают.
+- **Свайпы.** В плеере: влево и вправо меняют трек, вниз закрывает. На мини-плеере: влево и вправо меняют трек, вверх открывает. На страницах: влево и вправо переключают вкладки.
 - **Стеклянные вкладки.** Внизу на телефоне капсула в стиле жидкого стекла. Стеклянную «линзу» можно тянуть пальцем между вкладками.
 - **Плеер.** Перемотка, громкость, перемешивание, повтор, кнопки на экране блокировки. Полный плеер раскрывается кругом снизу.
 - **Любимое.** Сердечко у трека сохраняет его в твой список. Список хранится на твоём устройстве.
@@ -50,7 +51,7 @@
 <div align="center">
 <img src="assets/screens/phone.jpg" alt="Главная на телефоне" width="23%">
 <img src="assets/screens/phone-player.jpg" alt="Полный плеер" width="23%">
-<img src="assets/screens/phone-fony.jpg" alt="Поиск и жанры" width="23%">
+<img src="assets/screens/phone-fony.jpg" alt="Фон другого цвета у другой обложки" width="23%">
 </div>
 
 <div align="center">
